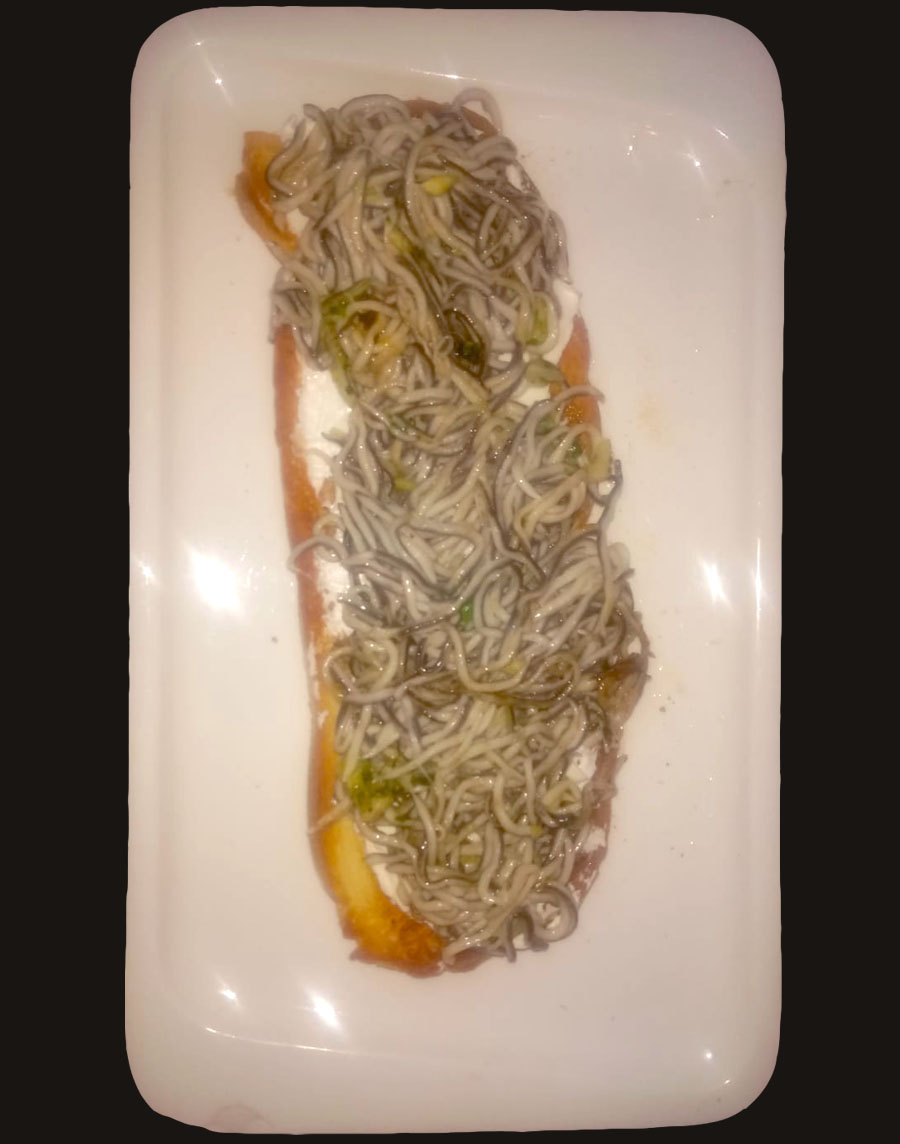
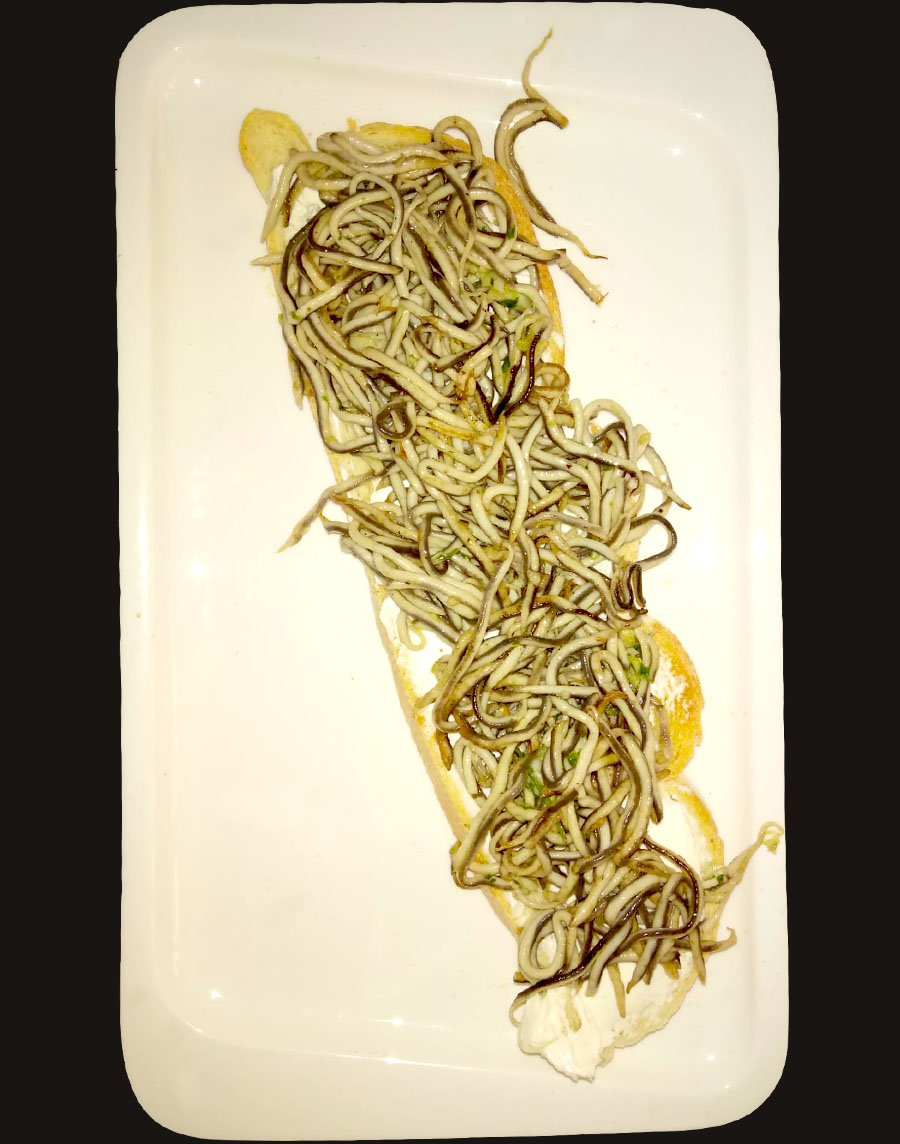
✨ (Taberna Olé) with more dish Pictures : Tostas

diff --git a/pages/horeca/ole-veinti3.vue b/pages/horeca/ole-veinti3.vue
@@ -874,9 +874,8 @@ export default {
               {
                 id: 62,
                 show: false,
-                name: 'Tosta tumaca y lomo',
-                // img: 'tosta-lomo',
-                img: null,
+                name: 'Tosta lomo y queso',
+                img: 'tosta-lomo',
                 desc:
                   'Pan tumaca y lomo a la plancha.',
                 prices: [
@@ -887,22 +886,20 @@ export default {
               {
                 id: 63,
                 show: false,
-                name: 'Tosta de ventresca y pimientos',
-                // img: 'tosta-ventresca',
-                img: null,
+                name: 'Tosta de solomillo',
+                img: 'tosta-solomillo',
                 desc:
-                  'Pan tostado con ventresca y pimientos de piquillo.',
+                  'Pan tostado con solomillo y salsa de queso roquefort.',
                 prices: [
                   { name: 'Unidad', price: '7,50' }
                 ],
-                allergens: ['pescado'],
+                allergens: ['lacteos'],
               },
               {
                 id: 64,
                 show: false,
                 name: 'Tosta de jamón ibérico',
-                // img: 'tosta-jamon-iberico',
-                img: null,
+                img: 'tosta-jamon-iberico',
                 desc:
                   'Pan tumaca con jamón ibérico.',
                 prices: [
@@ -913,9 +910,20 @@ export default {
               {
                 id: 65,
                 show: false,
+                name: 'Tosta de ventresca y pimientos',
+                img: 'tosta-ventresca',
+                desc:
+                  'Pan tostado con ventresca y pimientos de piquillo.',
+                prices: [
+                  { name: 'Unidad', price: '7,50' }
+                ],
+                allergens: ['pescado'],
+              },
+              {
+                id: 66,
+                show: false,
                 name: 'Tosta de salmón',
-                // img: 'tosta-salmon',
-                img: null,
+                img: 'tosta-salmon',
                 desc:
                   'Pan tostado con salmón y salsa de queso roquefort.',
                 prices: [
@@ -924,7 +932,7 @@ export default {
                 allergens: ['pescado','lacteos'],
               },
               {
-                id: 66,
+                id: 67,
                 show: false,
                 name: 'Tosta de anchoas con tomate',
                 // img: 'tosta-anchoas',
@@ -935,19 +943,6 @@ export default {
                   { name: 'Unidad', price: '7,50' }
                 ],
                 allergens: ['pescado'],
-              },
-              {
-                id: 67,
-                show: false,
-                name: 'Tosta de solomillo',
-                // img: 'tosta-solomillo',
-                img: null,
-                desc:
-                  'Pan tostado con solomillo y salsa de queso roquefort.',
-                prices: [
-                  { name: 'Unidad', price: '7,50' }
-                ],
-                allergens: ['lacteos'],
               },
               {
                 id: 68,
@@ -965,8 +960,7 @@ export default {
                 id: 69,
                 show: false,
                 name: 'Tosta de pulpo',
-                // img: 'tosta-vegetal',
-                img: null,
+                img: 'tosta-pulpo',
                 desc:
                   'Pan tostado con pulpo a la gallega sobre cama de puré de patatas. Todo con su toque de pimentón de la vera, sal gorda y aceite cruda.',
                 prices: [
